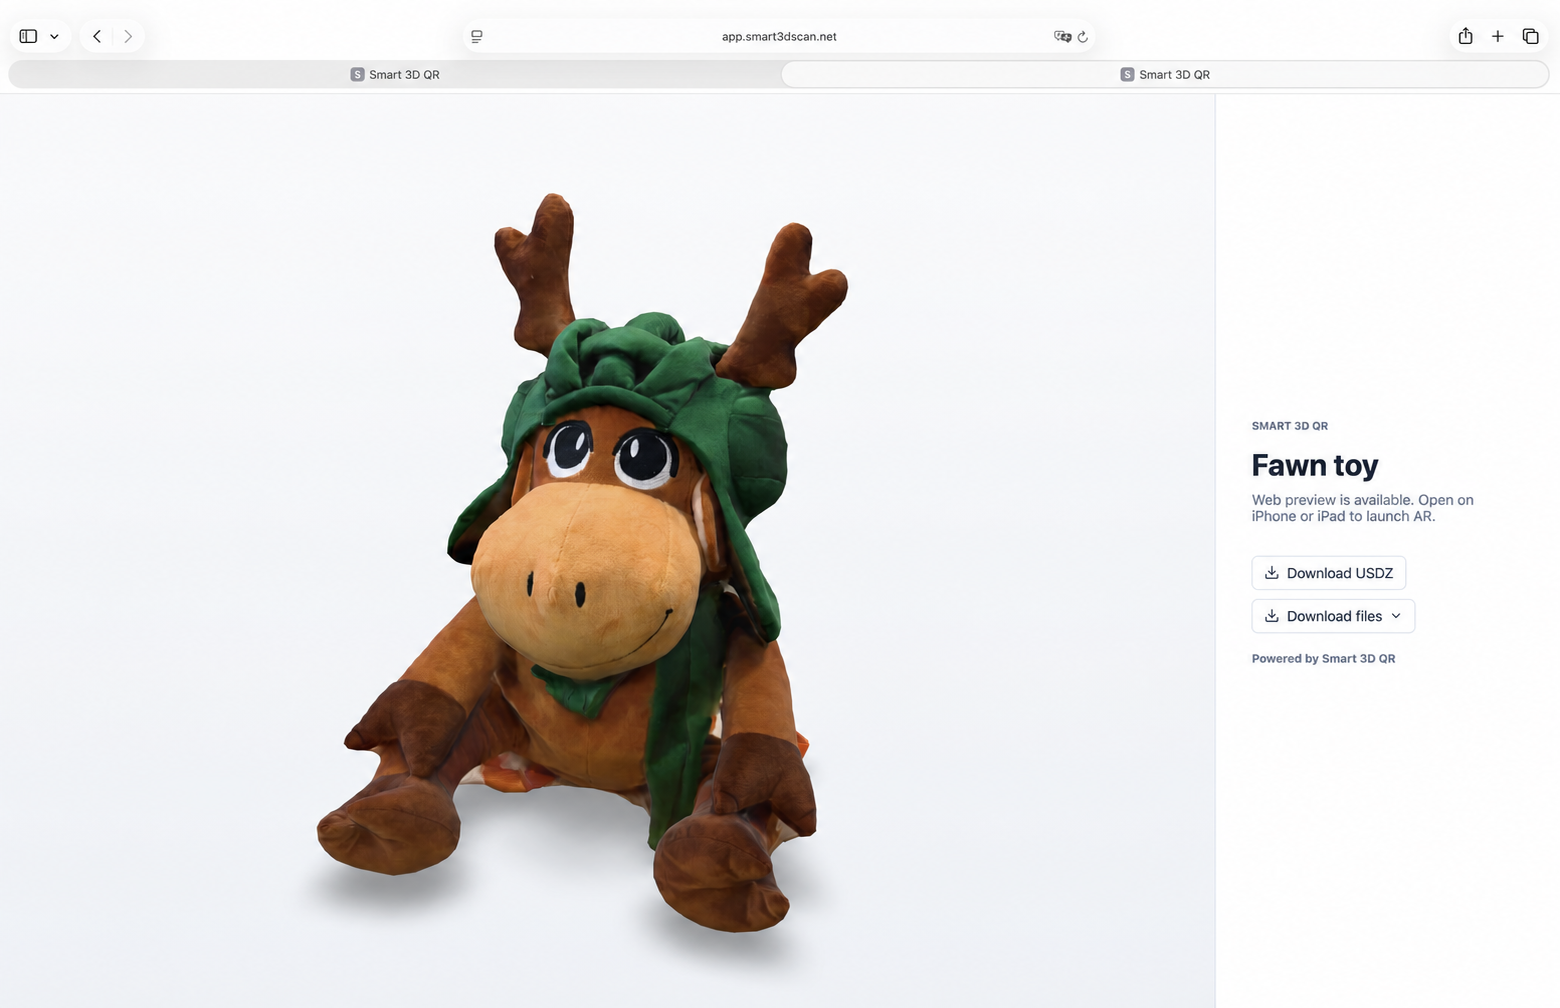
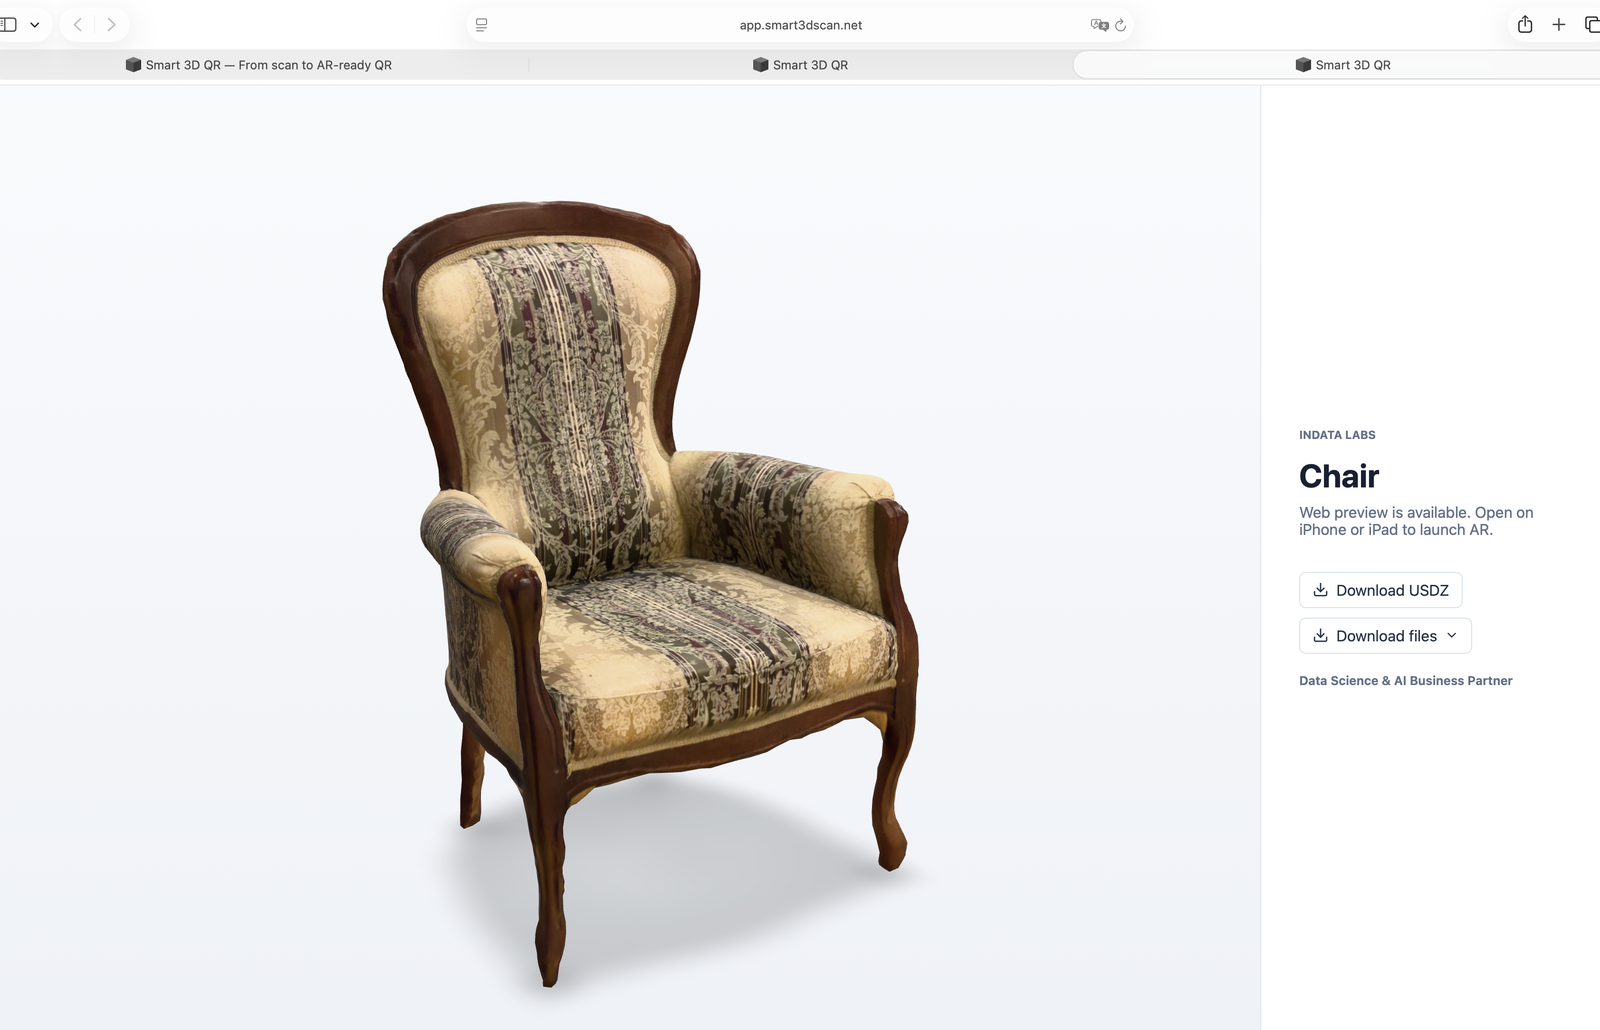
Update landing viewer visual to chair

diff --git a/src/App.jsx b/src/App.jsx
@@ -212,7 +212,7 @@ export function App() {
         <section id="experience" className="experience-section">
           <div className="section experience-inner">
             <div className="experience-visual">
-              <img src="./assets/smart-3d-qr-viewer.png" alt="Public Smart 3D QR Viewer showing the Fawn toy model and download actions" />
+              <img src="./assets/smart-3d-qr-viewer.png" alt="Public Smart 3D QR Viewer showing a chair model and download actions" />
             </div>
             <div className="experience-copy">
               <p className="eyebrow">One Viewer, every surface</p>